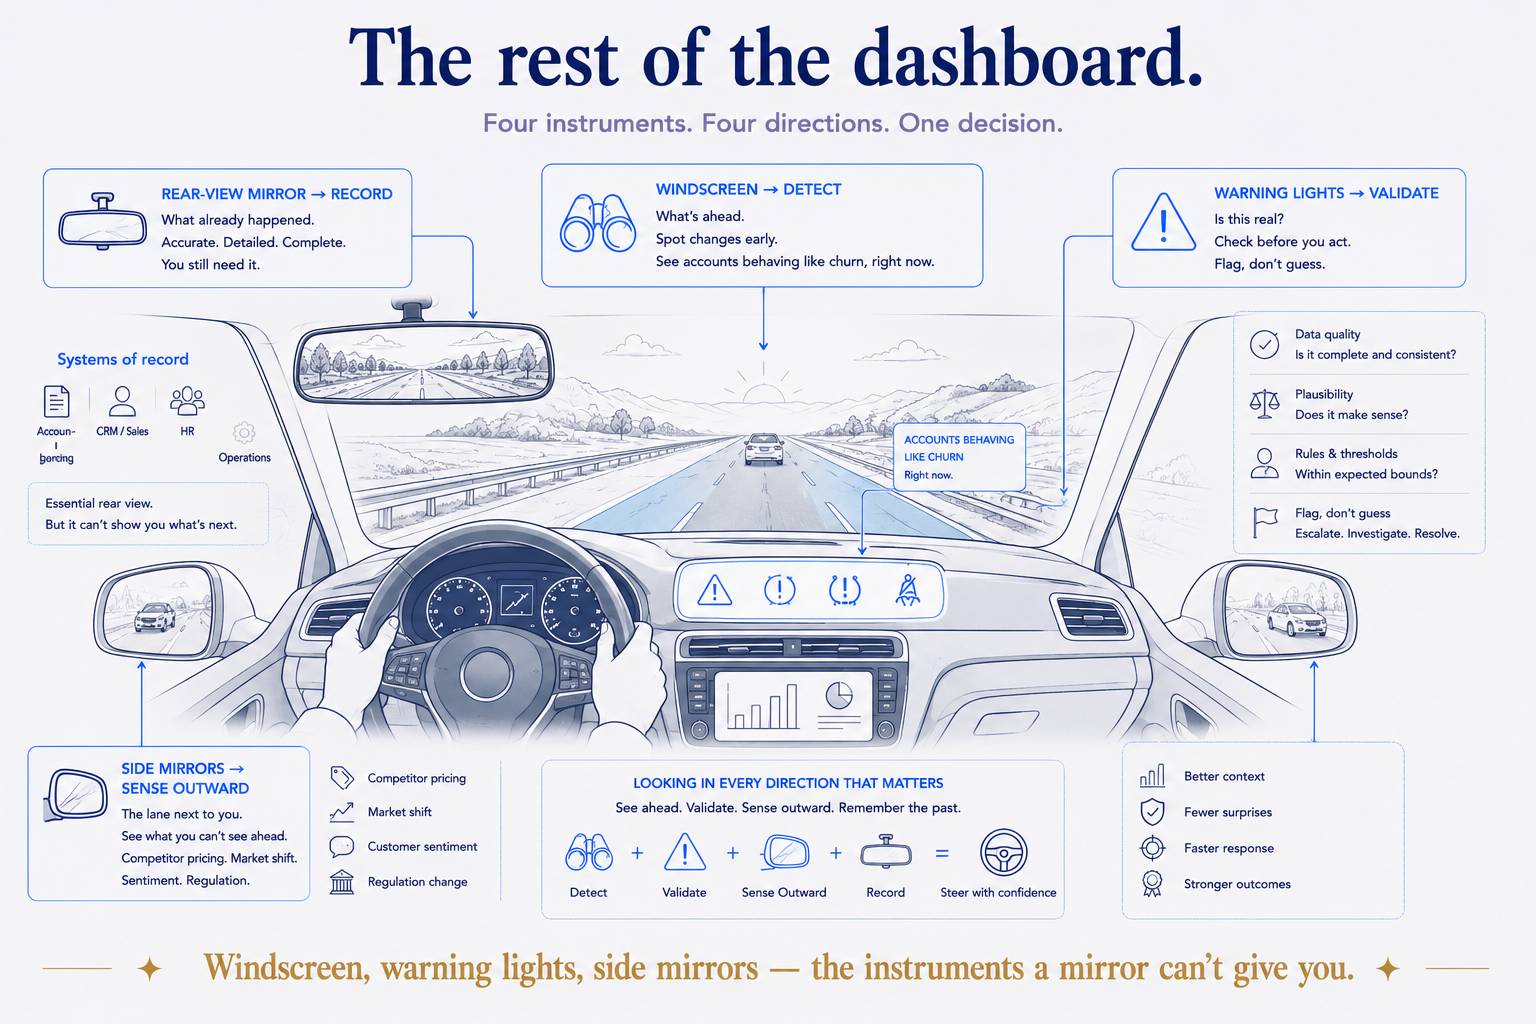
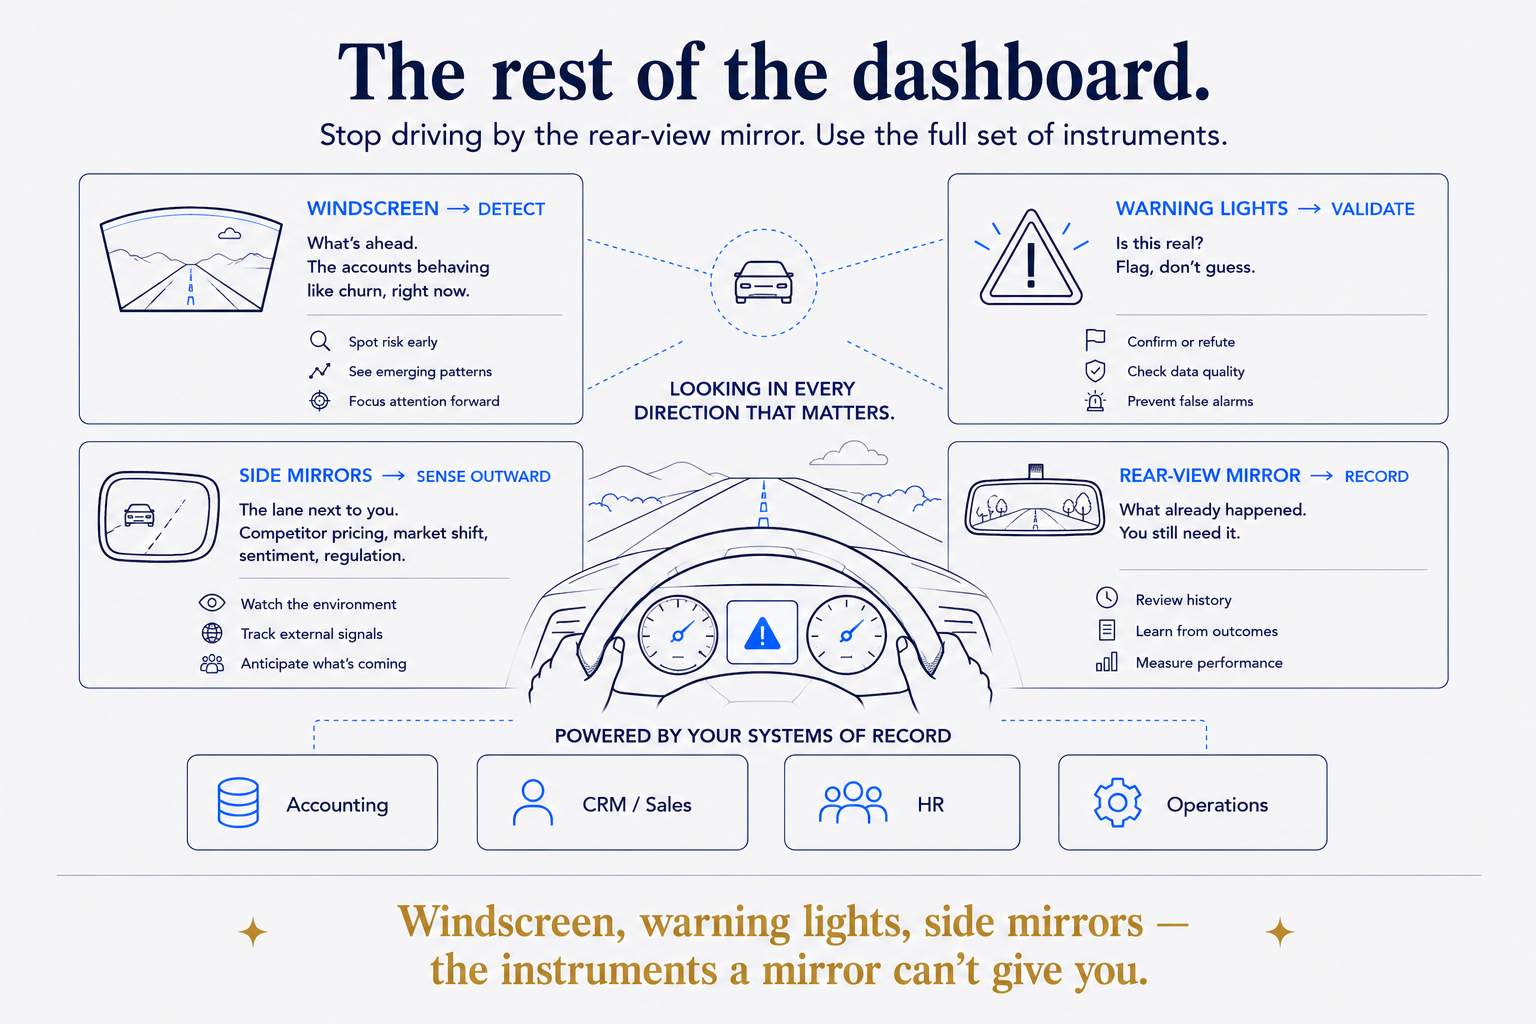
content: regenerate rear-view-mirror figure 02 (fixes garbled "Accoun-bercing")
v1 had a garbled label; the hardened brief specified the four systems-of-record
labels verbatim (Accounting, CRM / Sales, HR, Operations), each on one line.
Regenerated image passes the ADR-075 gate: clean text, on-brand, one concept.

Changed region(s): [[0.0, 0.0312, 0.9688, 0.9688], [0.9375, 0.25, 0.9688, 0.2812]]

diff --git a/articles/the-missing-system.html b/articles/the-missing-system.html
@@ -126,7 +126,7 @@
 <h2>The systems everyone has</h2>
 <p>Walk into any mid-sized organisation and you can predict the stack. There's a finance system that knows every transaction. A CRM that knows every customer and deal. An HR system that knows every employee. Something operational — a platform, an ERP, a scheduling tool — that runs the actual work. These are good systems, often expensive ones, and they do their job.</p>
 <p>But notice what kind of system they all are. In the language the enterprise-software world settled on years ago, they're <strong>systems of record</strong>: authoritative stores of what happened. A transaction posted. A deal closed. A hire made. They are, by design, backward-looking. They tell you the state of the world as it was recorded, accurately and after the fact.</p>
-<p>Here's the analogy I keep coming back to: <strong>a system of record is a <a href="../concepts.html#the-rear-view-mirror-problem">rear-view mirror</a>.</strong> It shows you, accurately and in detail, what's already behind you. You cannot drive safely without it. But if it's the <em>only</em> instrument on your dashboard, you're steering forward by looking backward — and most organisations, for all their expensive systems, are doing exactly that.</p>
+<p>Here's the analogy I keep coming back to: <strong>a system of record is a rear-view mirror.</strong> It shows you, accurately and in detail, what's already behind you. You cannot drive safely without it. But if it's the <em>only</em> instrument on your dashboard, you're steering forward by looking backward — and most organisations, for all their expensive systems, are doing exactly that.</p>
 <p>On top of records, most places have also bolted on <strong>systems of engagement</strong> — the portals, dashboards, and apps people use to interact with all that data. Also useful. Also, fundamentally, a window onto the records.</p>
 <p>And then the stack stops. There's a third kind of system that's supposed to sit above these — and in most organisations, it's simply absent, or present only as a scatter of disconnected reports. That's the missing one.</p>
 <h2>The system almost nobody built</h2>
@@ -139,7 +139,7 @@
 <p>The pattern has three parts, and the third is the one everyone forgets.</p>
 <p><strong>Data</strong> is the foundation: everything integrated into one place, decomposed into stable, well-modelled pieces rather than trapped in the silo that produced it. This is the part organisations understand — it's the data-warehouse, the lakehouse, the "single source of truth" project. Necessary, and not sufficient.</p>
 <p><strong>AI</strong> is the reader: the layer that traverses that data, connects things across silos, drafts the insight, answers the question, notices the pattern a human wouldn't have queried for. This is the part everyone is excited about right now, and the part everyone is trying to bolt straight onto messy data — which is why it hallucinates and gets quietly distrusted.</p>
-<p><strong>Rules</strong> are the part almost everyone leaves out, and they're what separate a real system of intelligence from a confident liar. Rules are the validation and <a href="../concepts.html#model-driven-data-quality">plausibility checks</a> that run continuously — at input, in the middle, and at output — and that do one disciplined thing when something doesn't add up: <strong>they flag it. They don't guess.</strong> A flagged number goes to a human, who resolves it and sharpens the rule. Over time the data gets cleaner <em>and</em> the rules get smarter. That loop — the system checking its own work and keeping a human in the loop — is the difference between a system you can act on and a dashboard you learn to ignore.</p>
+<p><strong>Rules</strong> are the part almost everyone leaves out, and they're what separate a real system of intelligence from a confident liar. Rules are the validation and plausibility checks that run continuously — at input, in the middle, and at output — and that do one disciplined thing when something doesn't add up: <strong>they flag it. They don't guess.</strong> A flagged number goes to a human, who resolves it and sharpens the rule. Over time the data gets cleaner <em>and</em> the rules get smarter. That loop — the system checking its own work and keeping a human in the loop — is the difference between a system you can act on and a dashboard you learn to ignore.</p>
 <p>Data makes it possible. AI makes it useful. <strong>Rules make it trustworthy.</strong> Skip the rules and you haven't built a smaller system of intelligence — you've built something worse than none, because it's wrong with confidence.</p>
 <figure class="graphic"><img src="../assets/the-missing-system-01.png" alt="Three parts, one system — and the third is the part everyone forgets. Data makes it possible; AI makes it useful; rules make it trustworthy. Rules aren't a gate at the end, they're a self-checking loop: the AI's draft output is validated, mismatches are flagged (not guessed), a human resolves them, and the rule sharpens. Most organisations stop at the first two — they have data, they use AI, but they skip the rules, and that's why the results don't last." loading="lazy"/><figcaption>Three parts, one system — and the third is the part everyone forgets. Data makes it possible; AI makes it useful; rules make it trustworthy. Rules aren't a gate at the end, they're a self-checking loop: the AI's draft output is validated, mismatches are flagged (not guessed), a human resolves them, and the rule sharpens. Most organisations stop at the first two — they have data, they use AI, but they skip the rules, and that's why the results don't last.</figcaption></figure>
 <h2>I know it works because I run it</h2>
@@ -154,7 +154,7 @@
 <p>That's also why it's hard, and why it's usually missing. It doesn't belong to any one department, so no one department builds it. It requires the data to be modelled well enough to connect, the AI to be trusted enough to rely on, and the rules to be disciplined enough to keep it honest. Most organisations have a piece — a data team here, an AI pilot there, a BI tool somewhere — and never assemble them into the loop that makes the whole thing intelligent.</p>
 <h2>Start by naming the gap</h2>
 <p>You can't build what you can't see, and the reason this system stays missing is that it doesn't show up as an absence. Nothing breaks. The dashboards still render. It's a <em>negative</em> space — the insights you never surfaced, the bad data you reported straight-faced, the competitor move you noticed a quarter late. Missing systems are invisible precisely because they're missing.</p>
-<p>So the first move is to name it. You have your systems of record, and they're fine. Ask the harder question: do you have the system that reads across all of them, detects what's changing, checks its own data against rules, and watches the world outside? If the honest answer is "we have some dashboards," then the layer isn't built — and now at least you know what's missing. Data, AI, and rules, assembled into a system that keeps itself honest. That's the one almost nobody has. It's also the one that, once you've seen it work, you can't unsee the absence of.</p><aside class="article-related"><h2>Related</h2><h3>Related concepts</h3><ul><li><a href="../concepts.html#the-missing-system">The Missing System</a></li><li><a href="../concepts.html#the-rear-view-mirror-problem">The Rear-View Mirror Problem</a></li><li><a href="../concepts.html#the-validation-loop">The Validation Loop</a></li></ul><h3>Related writing</h3><ul><li><a href="stop-driving-by-the-rear-view-mirror.html">Stop Driving by the Rear-View Mirror</a></li></ul></aside>
+<p>So the first move is to name it. You have your systems of record, and they're fine. Ask the harder question: do you have the system that reads across all of them, detects what's changing, checks its own data against rules, and watches the world outside? If the honest answer is "we have some dashboards," then the layer isn't built — and now at least you know what's missing. Data, AI, and rules, assembled into a system that keeps itself honest. That's the one almost nobody has. It's also the one that, once you've seen it work, you can't unsee the absence of.</p><aside class="article-related"><h2>Related</h2><h3>Related concepts</h3><ul><li><a href="../concepts.html#the-missing-system">The Missing System</a></li><li><a href="../concepts.html#the-rear-view-mirror-problem">The Rear View Mirror Problem</a></li><li><a href="../concepts.html#the-validation-loop">The Validation Loop</a></li></ul><h3>Related writing</h3><ul><li><a href="stop-driving-by-the-rear-view-mirror.html">Stop Driving by the Rear-View Mirror</a></li></ul></aside>
       </div>
     </div>
   </section>

diff --git a/articles/stop-driving-by-the-rear-view-mirror.html b/articles/stop-driving-by-the-rear-view-mirror.html
@@ -145,7 +145,7 @@
 <h2>Start by admitting you're driving blind</h2>
 <p>The hardest thing about a missing windscreen is that nothing feels broken. The mirror still works. The reports still render. You only notice the absence in the near-misses — the churn you saw coming a quarter too late, the competitor move you read about in the trade press, the bad number you presented to the board with total confidence. Those aren't bad luck. They're what driving by the mirror feels like from the inside.</p>
 <p>So the honest question for any leadership team isn't "are our reports accurate?" They probably are. It's: <strong>do we have anything that looks forward?</strong> Anything that tells us what's changing, checks whether it's true, and watches the world outside — before it shows up in next quarter's rear-view? If the answer is "we have dashboards," then you have a mirror, and only a mirror. The good news is that once you've seen the whole dashboard, you can't unsee how little of the road you were actually watching.</p>
-<p><em>This is the accessible version of a fuller argument I've made about the "<a href="../concepts.html#the-missing-system">missing system</a>" — the intelligence layer built from data, AI, and rules that most organisations never install. If you want the architecture underneath the metaphor, that's where it lives.</em></p><aside class="article-related"><h2>Related</h2><h3>Related concepts</h3><ul><li><a href="../concepts.html#the-rear-view-mirror-problem">The Rear-View Mirror Problem</a></li><li><a href="../concepts.html#the-missing-system">The Missing System</a></li></ul><h3>Related writing</h3><ul><li><a href="the-missing-system.html">The Missing System: Why Most Organisations Have No Intelligence Layer</a></li></ul></aside>
+<p><em>This is the accessible version of a fuller argument I've made about the "missing system" — the intelligence layer built from data, AI, and rules that most organisations never install. If you want the architecture underneath the metaphor, that's where it lives.</em></p><aside class="article-related"><h2>Related</h2><h3>Related concepts</h3><ul><li><a href="../concepts.html#the-rear-view-mirror-problem">The Rear View Mirror Problem</a></li><li><a href="../concepts.html#the-missing-system">The Missing System</a></li></ul><h3>Related writing</h3><ul><li><a href="the-missing-system.html">The Missing System: Why Most Organisations Have No Intelligence Layer</a></li></ul></aside>
       </div>
     </div>
   </section>
